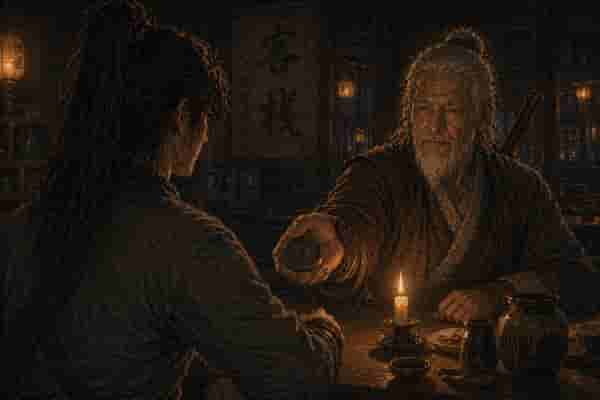
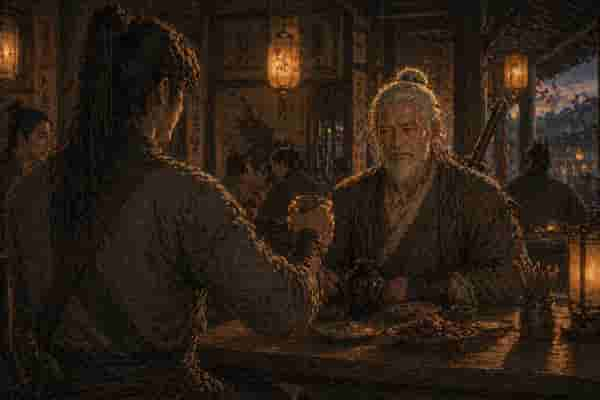
fix: reassign wang-tie 对坐 illustration to bond-1; update gallery hints
- Copy wang-tie-meet.jpg → wang-tie-bond-1.jpg (all 3 tiers)
- Gallery wang-tie-meet hint: 独自饮酒 → 两人对坐共饮
- Gallery wang-tie-bond-1 hint: updated to describe 对坐 scene

diff --git a/wuxia-reborn/index.html b/wuxia-reborn/index.html
@@ -3,19 +3,19 @@
 <head>
     <meta charset="UTF-8">
     <meta name="viewport" content="width=device-width, initial-scale=1.0, maximum-scale=1.0">
-    <title>轮回江湖 v0.27.32</title>
+    <title>轮回江湖 v0.27.33</title>
     <link rel="icon" type="image/png" sizes="64x64" href="assets/logo/favicon-64.png">
     <link rel="apple-touch-icon" sizes="180x180" href="assets/logo/favicon-180.png">
     <link rel="preconnect" href="https://fonts.googleapis.com">
     <link rel="preconnect" href="https://fonts.gstatic.com" crossorigin>
     <link href="https://fonts.googleapis.com/css2?family=Pinyon+Script&display=swap" rel="stylesheet">
-    <link rel="stylesheet" href="css/styles.css?v=0.27.32">
+    <link rel="stylesheet" href="css/styles.css?v=0.27.33">
 </head>
 <body>
 
 <!-- Start Screen -->
 <div id="startScreen" style="display:flex; flex-direction:column; flex:1; align-items:center; justify-content:center; gap:24px;">
-    <img src="assets/logo/logo.jpg?v=0.27.32" class="start-logo" alt="轮回江湖" onerror="retryImg(this,this.src)">
+    <img src="assets/logo/logo.jpg?v=0.27.33" class="start-logo" alt="轮回江湖" onerror="retryImg(this,this.src)">
     <div class="start-sub">武侠 · 轮回 · 文字冒险</div>
     <div class="start-form">
         <div class="start-birth-row">
@@ -53,7 +53,7 @@
 <!-- Game Screen (hidden until start) -->
 <div id="gameScreen" style="display:none; flex-direction:column; flex:1; overflow:hidden;">
     <header class="game-header">
-        <img src="assets/logo/logo-sm.jpg?v=0.27.32" class="game-title-logo" alt="轮回江湖" onerror="retryImg(this,this.src)">
+        <img src="assets/logo/logo-sm.jpg?v=0.27.33" class="game-title-logo" alt="轮回江湖" onerror="retryImg(this,this.src)">
         <div class="header-controls">
             <button id="muteBtn" class="btn-small" style="display:none" onclick="(function(){ const m = GameAudio.toggleMute(); document.getElementById('muteBtn').textContent = m ? '🔇 静音' : '🔊 音效'; })()">🔊 音效</button>
             <button id="galleryBtn" class="btn-small" onclick="Gallery.open()">🖼 图鉴</button>
@@ -216,20 +216,20 @@ function retryImg(el, src) {
 // Synchronous: swap start screen to loading indicator if a save already exists
 if (localStorage.getItem('wuxia_save')) {
     document.getElementById('startScreen').innerHTML = `
-        <img src="assets/logo/logo.jpg?v=0.27.32" class="start-logo" alt="轮回江湖" onerror="retryImg(this,this.src)">
+        <img src="assets/logo/logo.jpg?v=0.27.33" class="start-logo" alt="轮回江湖" onerror="retryImg(this,this.src)">
         <div class="start-sub">武侠 · 轮回 · 文字冒险</div>
         <img src="assets/illustrations/rebirth.jpg" class="loading-illus" alt="">
         <div class="loading-text">读取存档中</div>`;
 }
 </script>
-<script src="js/audio.js?v=0.27.32"></script>
-<script src="js/character.js?v=0.27.32"></script>
-<script src="js/npc.js?v=0.27.32"></script>
-<script src="js/combat.js?v=0.27.32"></script>
-<script src="js/rebirth.js?v=0.27.32"></script>
-<script src="js/engine.js?v=0.27.32"></script>
-<script src="js/gallery.js?v=0.27.32"></script>
-<script src="js/ui.js?v=0.27.32"></script>
+<script src="js/audio.js?v=0.27.33"></script>
+<script src="js/character.js?v=0.27.33"></script>
+<script src="js/npc.js?v=0.27.33"></script>
+<script src="js/combat.js?v=0.27.33"></script>
+<script src="js/rebirth.js?v=0.27.33"></script>
+<script src="js/engine.js?v=0.27.33"></script>
+<script src="js/gallery.js?v=0.27.33"></script>
+<script src="js/ui.js?v=0.27.33"></script>
 <script>
 (async function() {
     await Engine.init();

diff --git a/wuxia-reborn/js/gallery.js b/wuxia-reborn/js/gallery.js
@@ -15,8 +15,8 @@ const GALLERY_DATA = [
     { id: 'sword-soul-lose',              name: '败于剑意',             hint: '在与剑魂的对决中落败',                       category: 'bosses'  },
     { id: 'jianhun-origin-win',            name: '九百年前·终结',        hint: '以信念和人间之力，在九百年前终结了剑魂的本源——长夜将尽，曙光初破', category: 'bosses', secret: true },
     // 羁绊情缘 — 王铁
-    { id: 'wang-tie-meet',               name: '王铁·酒馆初识',       hint: '小镇酒馆，初遇独酌的老镖师',               category: 'bonds'   },
-    { id: 'wang-tie-bond-1',             name: '王铁·镖路往事',       hint: '听老镖师讲述三十年走镖旧事，接过传承铁牌', category: 'bonds'   },
+    { id: 'wang-tie-meet',               name: '王铁·酒馆初识',       hint: '小镇酒馆，初遇老镖师，两人对坐共饮',               category: 'bonds'   },
+    { id: 'wang-tie-bond-1',             name: '王铁·镖路往事',       hint: '对坐酒桌，听老镖师讲述三十年走镖旧事，接过传承铁牌', category: 'bonds'   },
     { id: 'wang-tie-bond-2',             name: '王铁·两肋插刀',       hint: '夜道追镖，二人背靠背对抗盗匪',             category: 'bonds'   },
     { id: 'wang-tie-bond-3',             name: '王铁·最后一课',       hint: '老镖师将三十年活命心法倾囊相授',           category: 'bonds'   },
     { id: 'wang-tie-bond-4',             name: '王铁·刀碑',           hint: '城郊荒坡，他在旧弟兄的木桩墓碑前倾诉往事', category: 'bonds'   },

diff --git a/wuxia-reborn/PROGRESS.md b/wuxia-reborn/PROGRESS.md
@@ -1,6 +1,10 @@
 # 轮回江湖 — 开发进度
 
-## 当前版本：v0.27.32
+## 当前版本：v0.27.33
+
+### v0.27.33（2026-05-19）
+
+- 修正王铁·初遇插画归属：对坐场景图同步至 bond-1（镖路往事），meet/bond-1 画廊提示词更新匹配实际画面
 
 ### v0.27.32（2026-05-19）
 

diff --git a/wuxia-reborn/README.md b/wuxia-reborn/README.md
@@ -1,4 +1,4 @@
-# 轮回江湖（开发中）v0.27.32
+# 轮回江湖（开发中）v0.27.33
 
 > 武侠风世界线回溯类文字冒险游戏 · 纯 HTML/CSS/JS · GitHub Pages 可直接部署
 
